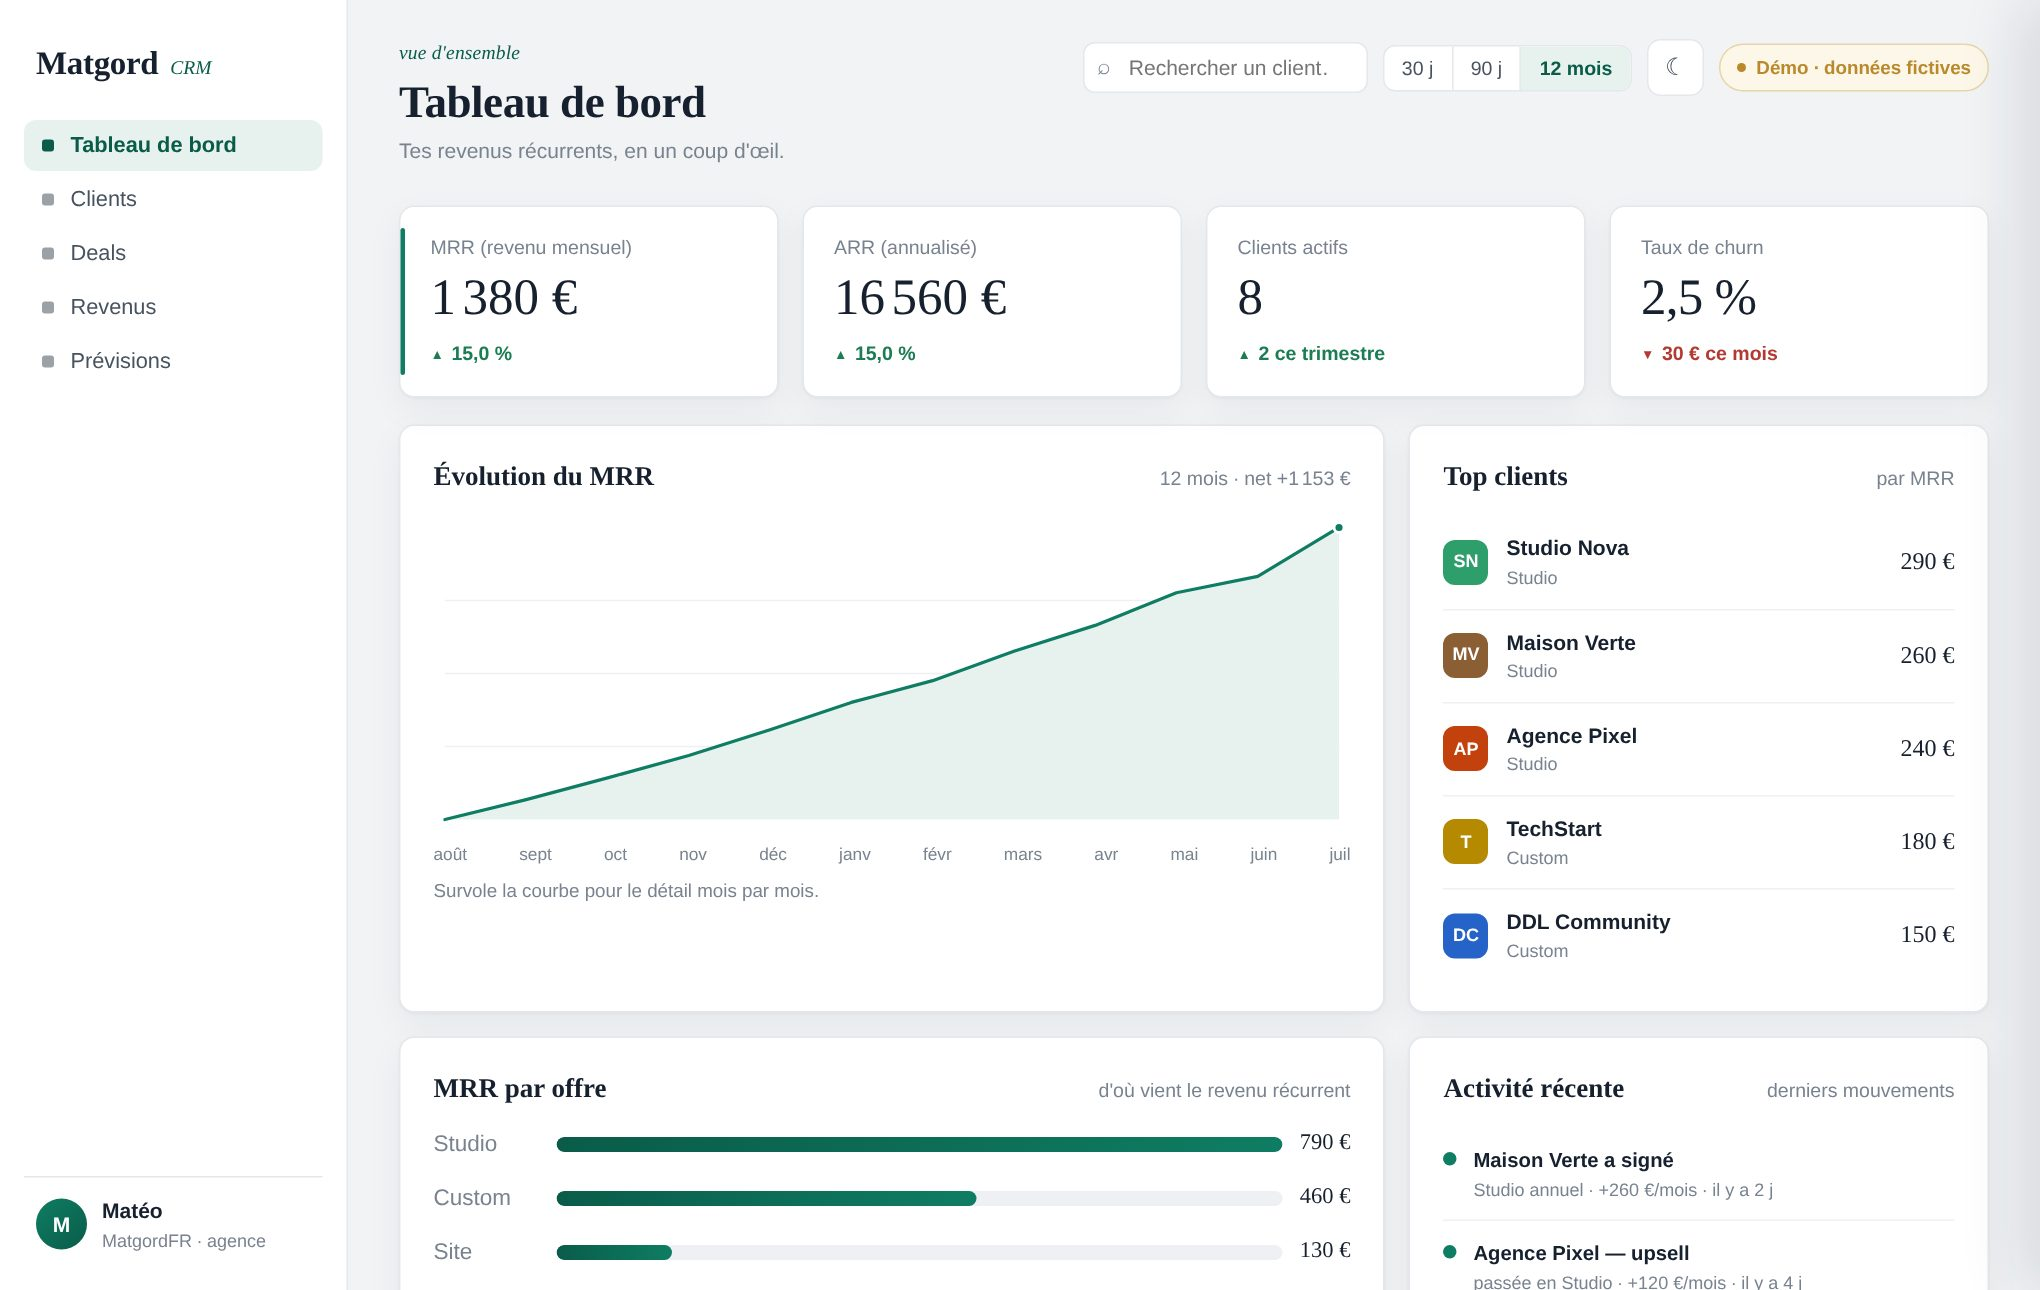
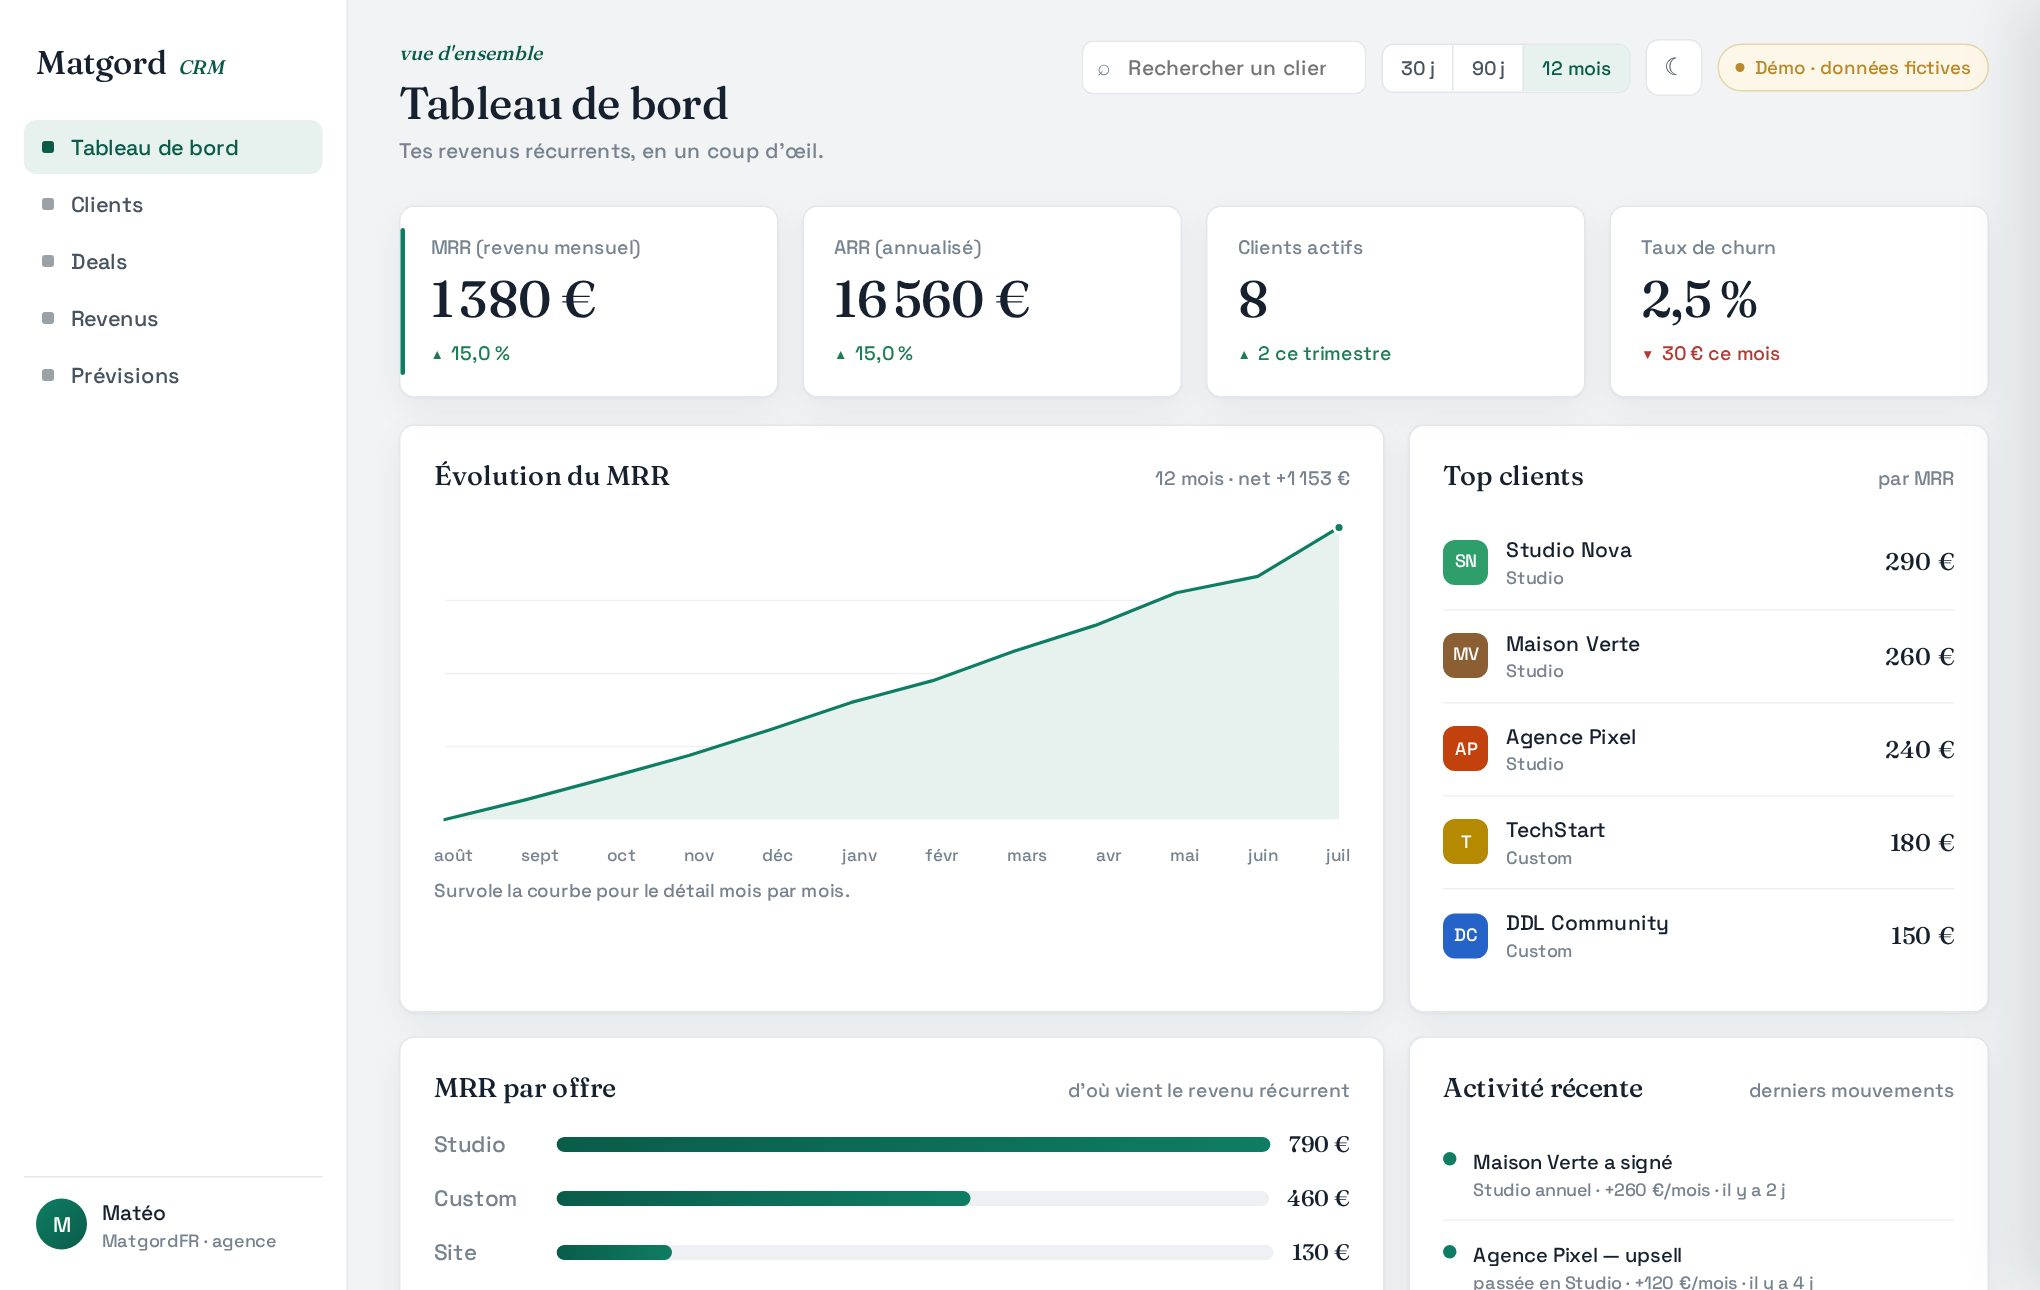
Anti-slop : typo caractérielle, icônes SVG, signature perso, micro-interactions
- Polices auto-hébergées (Fraunces display + Space Grotesk UI, mêmes que le site
  perso -> cohérence de marque) à la place des polices système + Georgia.
- Icônes des cartes en vraies SVG dessinées (fini les glyphes Unicode « placeholder »).
- Section « L'auteur » : signature humaine « Moi c'est Matéo » + liens publics
  (GitHub / X / site perso) -- le vrai signal fait-main, pas généré.
- Micro-interactions : cartes qui se soulèvent + barre d'accent au survol.
- Voix plus perso. App hérite aussi des nouvelles polices.
- Vérifié : polices chargées, 0 overflow (landing+app, desktop+mobile), 0 erreur,
  light+dark. OPSEC : gitleaks 0 leak.

diff --git a/index.html b/index.html
@@ -44,7 +44,7 @@
           <a class="cta-primary" href="app.html">Ouvrir la démo →</a>
           <a class="cta-ghost" href="https://github.com/MatgordFR/matgord-crm-demo" target="_blank" rel="noopener">Voir le code</a>
         </div>
-        <div class="hero-note">Données 100 % fictives · réalisé par <b>MatgordFR</b></div>
+        <div class="hero-note">Données 100 % fictives · codé main par <b>MatgordFR</b></div>
       </div>
 
       <div class="hero-viz">
@@ -69,12 +69,12 @@
         <h2 class="sec-title">Cinq vues, un seul objectif : voir clair.</h2>
         <p class="sec-lead">Du portefeuille client jusqu'aux métriques qu'un investisseur regarde — sans quitter la page.</p></div>
       <div class="features">
-        <div class="feature reveal"><div class="f-ic">◱</div><h3>Tableau de bord</h3><p>KPIs (MRR, ARR, churn), courbe de MRR avec tooltip au survol, top clients, activité.</p></div>
-        <div class="feature reveal d1"><div class="f-ic">☰</div><h3>Clients</h3><p>Table triable, recherche instantanée, et une fiche client qui glisse au clic.</p></div>
-        <div class="feature reveal d2"><div class="f-ic">▤</div><h3>Deals</h3><p>Pipeline en kanban, du premier lead jusqu'au deal gagné ou perdu.</p></div>
-        <div class="feature reveal"><div class="f-ic">◔</div><h3>Revenus</h3><p>MRR décomposé, waterfall new/expansion/contraction/churn, métriques SaaS.</p></div>
-        <div class="feature reveal d1"><div class="f-ic">◹</div><h3>Prévisions</h3><p>Projection du MRR sur 6 mois selon la tendance, hypothèses affichées.</p></div>
-        <div class="feature reveal d2"><div class="f-ic">◐</div><h3>Thèmes & détails</h3><p>Clair et sombre, animations, responsive, accessible au clavier.</p></div>
+        <div class="feature reveal"><div class="f-ic"><svg viewBox="0 0 20 20"><rect x="2.5" y="2.5" width="7" height="7" rx="1.2"/><rect x="11.5" y="2.5" width="6" height="4.5" rx="1.2"/><rect x="11.5" y="9.5" width="6" height="8" rx="1.2"/><rect x="2.5" y="11.5" width="7" height="6" rx="1.2"/></svg></div><h3>Tableau de bord</h3><p>KPIs (MRR, ARR, churn), courbe de MRR avec tooltip au survol, top clients, activité.</p></div>
+        <div class="feature reveal d1"><div class="f-ic"><svg viewBox="0 0 20 20"><rect x="2.5" y="4" width="15" height="12" rx="1.5"/><line x1="2.5" y1="8" x2="17.5" y2="8"/><line x1="8" y1="8" x2="8" y2="16"/></svg></div><h3>Clients</h3><p>Table triable, recherche instantanée, et une fiche client qui glisse au clic.</p></div>
+        <div class="feature reveal d2"><div class="f-ic"><svg viewBox="0 0 20 20"><rect x="2.5" y="4" width="3.6" height="12" rx="1"/><rect x="8.2" y="4" width="3.6" height="8.5" rx="1"/><rect x="13.9" y="4" width="3.6" height="10.5" rx="1"/></svg></div><h3>Deals</h3><p>Pipeline en kanban, du premier lead jusqu'au deal gagné ou perdu.</p></div>
+        <div class="feature reveal"><div class="f-ic"><svg viewBox="0 0 20 20"><line x1="3" y1="16.5" x2="17.5" y2="16.5"/><rect x="4" y="10" width="2.6" height="6.5"/><rect x="8.3" y="6" width="2.6" height="10.5"/><rect x="12.6" y="12.5" width="2.6" height="4"/></svg></div><h3>Revenus</h3><p>MRR décomposé, waterfall new/expansion/contraction/churn, métriques SaaS.</p></div>
+        <div class="feature reveal d1"><div class="f-ic"><svg viewBox="0 0 20 20"><polyline points="3,14 8,9.5 11.5,11.5 17,5"/><polyline points="12.5,5 17,5 17,9.5"/></svg></div><h3>Prévisions</h3><p>Projection du MRR sur 6 mois selon la tendance, hypothèses affichées.</p></div>
+        <div class="feature reveal d2"><div class="f-ic"><svg viewBox="0 0 20 20"><circle cx="10" cy="10" r="6.5"/><path d="M10 3.5 a6.5 6.5 0 0 0 0 13 z" style="fill:currentColor;stroke:none"/></svg></div><h3>Thèmes & détails</h3><p>Clair et sombre, animations, responsive, accessible au clavier.</p></div>
       </div>
     </section>
 
@@ -99,7 +99,7 @@
       <div class="tech reveal">
         <span><b>0</b> dépendance</span><span><b>0</b> CDN</span><span>SVG <b>dessiné à la main</b></span>
         <span>thèmes <b>clair / sombre</b></span><span>animations <b>+ reduced-motion</b></span>
-        <span><b>responsive</b></span><span>accessible <b>clavier</b></span><span>~<b>20 Ko</b> gzippé</span>
+        <span><b>responsive</b></span><span>accessible <b>clavier</b></span><span><b>2</b> polices auto-hébergées</span>
       </div>
     </section>
 
@@ -110,6 +110,23 @@
         <div class="stat-big"><div class="s-num num" data-to="5">0</div><div class="s-lab">vues interactives</div></div>
         <div class="stat-big"><div class="s-num num" data-to="4">0</div><div class="s-lab">métriques SaaS</div></div>
         <div class="stat-big"><div class="s-num num" data-to="100" data-suffix=" %">0</div><div class="s-lab">vanilla JS</div></div>
+      </div>
+    </section>
+
+    <!-- L'auteur -->
+    <section class="section author">
+      <div class="author-card reveal">
+        <div class="author-mono">M</div>
+        <div class="author-body">
+          <div class="sec-eyebrow">l'auteur</div>
+          <h2 class="author-name">Moi c'est Matéo.</h2>
+          <p class="author-bio">Dev indépendant — je bricole des bots Discord, des sites et des trucs avec l'IA. Ce CRM, je l'ai codé de A à Z, sans framework, juste pour montrer ce que je sais faire. Tout ce que tu vois là est fait main : les graphiques, les animations, la mise en page. Zéro générateur.</p>
+          <div class="author-links">
+            <a href="https://github.com/MatgordFR" target="_blank" rel="noopener">GitHub</a>
+            <a href="https://x.com/matgordfr" target="_blank" rel="noopener">X @matgordfr</a>
+            <a href="https://matgord.com" target="_blank" rel="noopener">matgord.com</a>
+          </div>
+        </div>
       </div>
     </section>
 

diff --git a/assets/css/landing.css b/assets/css/landing.css
@@ -97,6 +97,34 @@
 
 @keyframes word { to { opacity: 1; transform: none; } }
 
+/* ---------- Icônes SVG (line) ---------- */
+.f-ic svg { width: 19px; height: 19px; stroke: currentColor; fill: none; stroke-width: 1.6; stroke-linecap: round; stroke-linejoin: round; }
+
+/* ---------- Micro-interactions ---------- */
+.feature { position: relative; overflow: hidden; transition: transform .22s cubic-bezier(.2,.7,.2,1), border-color .22s, box-shadow .22s; }
+.feature::before { content: ""; position: absolute; left: 0; top: 0; bottom: 0; width: 3px; background: var(--accent); transform: scaleY(0); transform-origin: top; transition: transform .26s cubic-bezier(.2,.7,.2,1); }
+.feature:hover { transform: translateY(-3px); border-color: color-mix(in srgb, var(--accent) 38%, var(--hair)); }
+.feature:hover::before { transform: scaleY(1); }
+.feature .f-ic { transition: transform .22s ease; }
+.feature:hover .f-ic { transform: scale(1.08) rotate(-3deg); }
+.mcard { transition: transform .2s ease, border-color .2s; }
+.mcard:hover { transform: translateY(-2px); border-color: color-mix(in srgb, var(--accent) 34%, var(--hair)); }
+.stat-big { transition: transform .2s ease; }
+.stats-band:hover .stat-big { opacity: .55; }
+.stats-band .stat-big:hover { opacity: 1; transform: translateY(-2px); }
+
+/* ---------- L'auteur ---------- */
+.author-card { display: flex; gap: 26px; align-items: flex-start; background: var(--surface); border: 1px solid var(--hair); border-radius: 18px; padding: 32px 34px; box-shadow: var(--shadow); }
+.author-mono { width: 66px; height: 66px; border-radius: 17px; flex: none; display: grid; place-items: center;
+  font-family: var(--font-display); font-size: 34px; color: #fff; background: linear-gradient(135deg, var(--accent), var(--accent-ink)); }
+:root[data-theme="dark"] .author-mono { color: #08120D; }
+.author-name { font-family: var(--font-display); font-size: clamp(24px, 3vw, 30px); margin: 6px 0 12px; letter-spacing: -.01em; }
+.author-bio { color: var(--ink-soft); font-size: 16.5px; line-height: 1.6; max-width: 48em; }
+.author-links { display: flex; gap: 10px; flex-wrap: wrap; margin-top: 18px; }
+.author-links a { border: 1px solid var(--hair); border-radius: 8px; padding: 8px 14px; font-size: 14px; color: var(--ink); text-decoration: none; background: var(--surface-2); transition: border-color .2s, transform .15s, color .2s; }
+.author-links a:hover { border-color: var(--accent); color: var(--accent-ink); transform: translateY(-1px); }
+@media (max-width: 560px) { .author-card { flex-direction: column; gap: 18px; padding: 24px; } }
+
 /* ---------- Responsive ---------- */
 @media (max-width: 900px) {
   .hero { grid-template-columns: 1fr; gap: 40px; padding: 48px 0 40px; }

diff --git a/assets/css/styles.css b/assets/css/styles.css
@@ -3,6 +3,10 @@
    Gros chiffres en serif (figures oldstyle = caractère ledger), données en sans
    à chiffres tabulaires (alignement). Look assumé clair, une seule direction. */
 
+/* Polices auto-hébergées (mêmes que le site perso de MatgordFR → cohérence de marque) */
+@font-face { font-family: "Fraunces"; src: url("../fonts/fraunces.woff2") format("woff2"); font-weight: 300 700; font-display: swap; }
+@font-face { font-family: "Space Grotesk"; src: url("../fonts/space-grotesk.woff2") format("woff2"); font-weight: 300 700; font-display: swap; }
+
 :root {
   --paper:      #F1F3F5;   /* fond, froid (pas cream) */
   --surface:    #FFFFFF;
@@ -20,8 +24,8 @@
   --down-wash:  #F7E9E7;
   --gold:       #B9892B;
 
-  --font-ui: -apple-system, BlinkMacSystemFont, "Segoe UI", Roboto, Helvetica, Arial, sans-serif;
-  --font-display: "Iowan Old Style", "Palatino Linotype", "Book Antiqua", Palatino, Georgia, serif;
+  --font-ui: "Space Grotesk", -apple-system, BlinkMacSystemFont, "Segoe UI", Roboto, Helvetica, Arial, sans-serif;
+  --font-display: "Fraunces", "Iowan Old Style", "Palatino Linotype", Palatino, Georgia, serif;
 
   --r: 10px;
   --shadow: 0 1px 2px rgba(22,32,46,.04), 0 8px 24px rgba(22,32,46,.05);